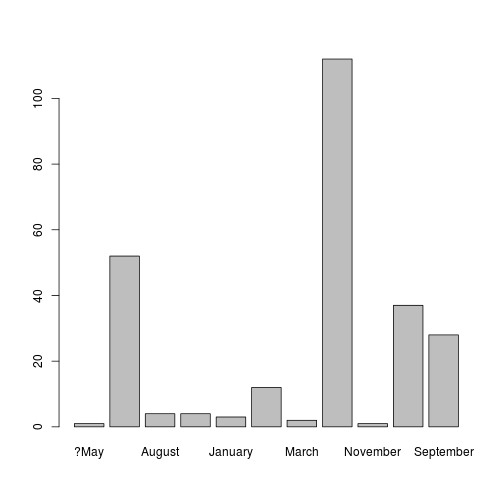
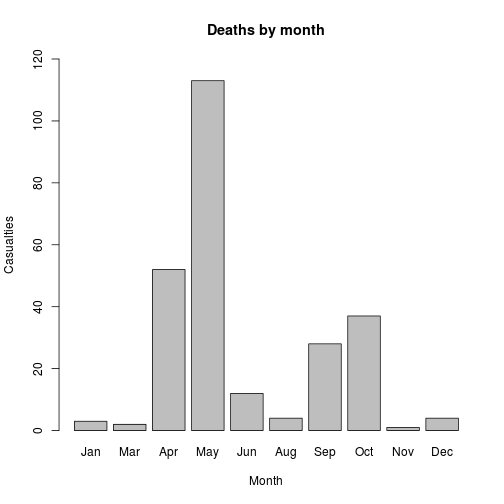
graph formatted

diff --git a/Quiz7-EC.html b/Quiz7-EC.html
@@ -72,20 +72,6 @@
 <p>This is an R HTML document. When you click the <b>Knit HTML</b> button a web page will be generated that includes both content as well as the output of any embedded R code chunks within the document. You can embed an R code chunk like this:</p>
 
 </div><div class="rimage default"><img src="figure/unnamed-chunk-1-1.png" title="plot of chunk unnamed-chunk-1" alt="plot of chunk unnamed-chunk-1" class="plot" /></div><div class="rcode">
-               Var1 Freq
-January        ?May    1
-March         April   52
-April        August    4
-May        December    4
-?May        January    3
-June           June   12
-August        March    2
-September       May  112
-October    November    1
-November    October   37
-December  September   28
-<div class="error"><pre class="knitr r">## Error: stat_bin requires the following missing aesthetics: x
-</pre></div>
 
 
 <p>You can also embed plots, for example:</p>
